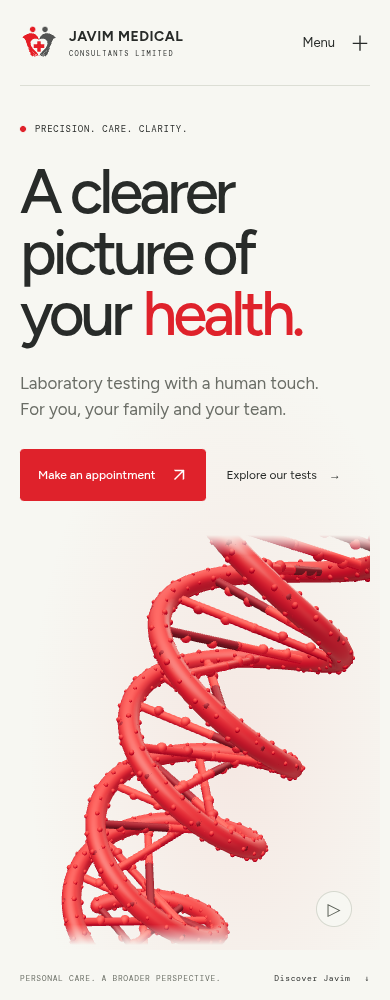
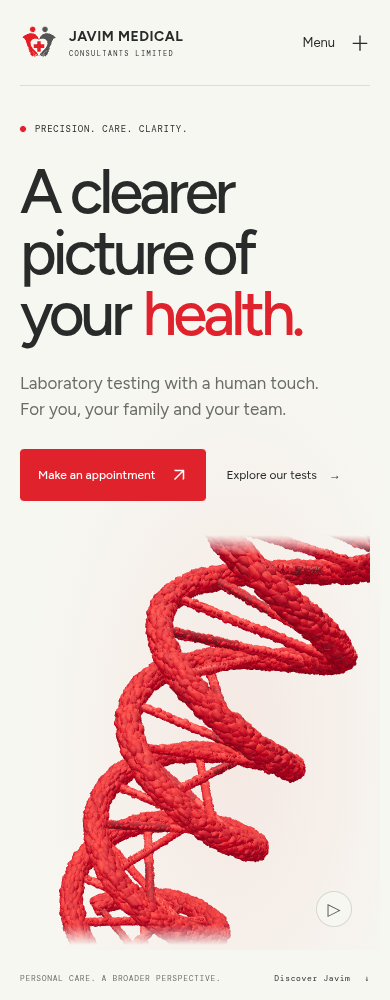
Give DNA continuous densely clustered organic texture

Changed region(s): [[0.1538, 0.527, 0.9538, 0.961]]

diff --git a/src/scene.js b/src/scene.js
@@ -59,7 +59,7 @@ export function mountScene(container) {
   const texture = new THREE.CanvasTexture(surface);
   texture.wrapS = texture.wrapT = THREE.RepeatWrapping;
   texture.repeat.set(5, 2);
-  const red = new THREE.MeshPhysicalMaterial({color:0xac0718,roughness:.58,metalness:0,clearcoat:.1,clearcoatRoughness:.5,envMapIntensity:.3,bumpMap:texture,bumpScale:.07});
+  const red = new THREE.MeshPhysicalMaterial({color:0xac0718,roughness:.72,metalness:0,clearcoat:.04,clearcoatRoughness:.7,envMapIntensity:.25,bumpMap:texture,bumpScale:.055});
   const pale = new THREE.MeshPhysicalMaterial({color:0xc21924,roughness:.62,envMapIntensity:.25,bumpMap:texture,bumpScale:.04});
   const deep = new THREE.MeshPhysicalMaterial({color:0x710916,roughness:.6,envMapIntensity:.25,bumpMap:texture,bumpScale:.04});
   const dna = new THREE.Group(); scene.add(dna);
@@ -67,7 +67,15 @@ export function mountScene(container) {
   const point = (t, phase = 0) => new THREE.Vector3(Math.cos(t * turns * Math.PI * 2 + phase) * radius, (t - .5) * height, Math.sin(t * turns * Math.PI * 2 + phase) * radius);
   for (const phase of [0, offset]) {
     const points = Array.from({length:241}, (_, i) => point(i / 240, phase));
-    dna.add(new THREE.Mesh(new THREE.TubeGeometry(new THREE.CatmullRomCurve3(points), 240, .145, 18, false), red));
+    const geometry = new THREE.TubeGeometry(new THREE.CatmullRomCurve3(points), 320, .12, 24, false);
+    const vertices = geometry.attributes.position, normals = geometry.attributes.normal;
+    for (let i = 0; i < vertices.count; i++) {
+      const x = vertices.getX(i), y = vertices.getY(i), z = vertices.getZ(i);
+      const fold = .013 * Math.sin(y * 24 + x * 13) * Math.sin(z * 21 - y * 9) + .008 * Math.sin(y * 43 + z * 17);
+      vertices.setXYZ(i, x + normals.getX(i) * fold, y + normals.getY(i) * fold, z + normals.getZ(i) * fold);
+    }
+    geometry.computeVertexNormals();
+    dna.add(new THREE.Mesh(geometry, deep));
   }
   const atomGeometry = new THREE.SphereGeometry(1, 16, 12);
   const bondGeometry = new THREE.CylinderGeometry(1, 1, 1, 10);
@@ -82,14 +90,14 @@ export function mountScene(container) {
   };
   for (let i = 0; i <= 27; i++) {
     const t = i / 27, left = point(t), right = point(t, offset);
-    atom(left, .135, red); atom(right, .135, red);
+    atom(left, .1, red); atom(right, .1, red);
     const middle = left.clone().lerp(right, .5);
     bond(left, middle, .06, i % 2 ? red : pale);
     bond(middle, right, .06, i % 2 ? pale : deep);
     for (let j = 1; j < 6; j++) {
       const p = left.clone().lerp(right, j / 6);
       p.y += Math.sin(j * Math.PI / 3) * .035;
-      atom(p, j === 3 ? .065 : .074, (i + j) % 3 ? pale : red);
+      atom(p, j === 3 ? .045 : .052, (i + j) % 3 ? pale : red);
     }
     for (const phase of [0, offset]) {
       const p = point(Math.min(1, t + .014), phase);
@@ -97,23 +105,57 @@ export function mountScene(container) {
       atom(side, .06, deep); bond(p, side, .035, red);
     }
   }
-  // Instanced surface clusters add molecular relief with one additional draw call.
-  const clusters = new THREE.InstancedMesh(new THREE.SphereGeometry(1, 8, 6), red, 810);
-  const dummy = new THREE.Object3D(); let clusterIndex = 0;
-  for (const phase of [0, offset]) for (let i = 0; i <= 80; i++) {
-    const t = i / 80, centre = point(t, phase);
+  // Overlapping irregular grains form the strand itself, rather than dots on a tube.
+  // Instancing retains two draw calls for thousands of fused-looking pieces.
+  const grainGeometry = new THREE.SphereGeometry(1, 10, 8);
+  const positions = grainGeometry.attributes.position;
+  for (let i = 0; i < positions.count; i++) {
+    const x = positions.getX(i), y = positions.getY(i), z = positions.getZ(i);
+    const ridge = 1 + .14 * Math.sin(x * 7 + y * 4) * Math.sin(z * 8 - y * 5) + .07 * Math.cos(y * 13 + x * 6);
+    positions.setXYZ(i, x * ridge, y * ridge, z * ridge);
+  }
+  grainGeometry.computeVertexNormals();
+  const rows = 320, ringCount = 10;
+  const clusters = new THREE.InstancedMesh(grainGeometry, red, 2 * rows * ringCount);
+  const dummy = new THREE.Object3D(), colour = new THREE.Color(); let clusterIndex = 0;
+  const setGrain = (centre, normal, binormal, tangent, angle, radius, size) => {
+    dummy.position.copy(centre).addScaledVector(normal, Math.cos(angle) * radius).addScaledVector(binormal, Math.sin(angle) * radius);
+    dummy.quaternion.setFromUnitVectors(new THREE.Vector3(0, 1, 0), tangent);
+    dummy.rotateY(random() * Math.PI); dummy.rotateZ((random() - .5) * .7);
+    dummy.scale.set(size * (.8 + random() * .3), size * (1.1 + random() * .6), size * (.75 + random() * .4));
+    dummy.updateMatrix(); return dummy.matrix;
+  };
+  for (const phase of [0, offset]) for (let i = 0; i < rows; i++) {
+    const t = (i + (random() - .5) * .6) / (rows - 1), centre = point(t, phase);
     const tangent = point(t + .001, phase).sub(centre).normalize();
     const normal = new THREE.Vector3(centre.x, 0, centre.z).normalize();
     normal.addScaledVector(tangent, -normal.dot(tangent)).normalize();
     const binormal = new THREE.Vector3().crossVectors(tangent, normal).normalize();
-    for (let j = 0; j < 5; j++) {
-      const angle = j * Math.PI * 2 / 5 + random() * .5;
-      dummy.position.copy(centre).addScaledVector(normal, Math.cos(angle) * .14).addScaledVector(binormal, Math.sin(angle) * .14);
-      dummy.scale.setScalar(.025 + random() * .018); dummy.updateMatrix();
-      clusters.setMatrixAt(clusterIndex++, dummy.matrix);
+    for (let j = 0; j < ringCount; j++) {
+      const angle = j * Math.PI * 2 / ringCount + random() * .45 + i * .37;
+      const size = .05 + random() * .025;
+      clusters.setMatrixAt(clusterIndex, setGrain(centre, normal, binormal, tangent, angle, .105 + random() * .016, size));
+      colour.setRGB(.65 + random() * .35, .65 + random() * .35, .65 + random() * .35);
+      clusters.setColorAt(clusterIndex++, colour);
     }
   }
-  clusters.instanceMatrix.needsUpdate = true; dna.add(clusters);
+  clusters.instanceMatrix.needsUpdate = true; clusters.instanceColor.needsUpdate = true; dna.add(clusters);
+  // Smaller packed grains continue the same texture across the connecting rungs.
+  const rungGrains = new THREE.InstancedMesh(grainGeometry, red, 28 * 32 * 4);
+  let rungIndex = 0;
+  for (let i = 0; i <= 27; i++) {
+    const left = point(i / 27), right = point(i / 27, offset), tangent = right.clone().sub(left).normalize();
+    const normal = new THREE.Vector3(0, 1, 0), binormal = new THREE.Vector3().crossVectors(tangent, normal).normalize();
+    normal.crossVectors(binormal, tangent).normalize();
+    for (let k = 0; k < 32; k++) {
+      const centre = left.clone().lerp(right, (k + random() * .4) / 31.4);
+      for (let j = 0; j < 4; j++) {
+        rungGrains.setMatrixAt(rungIndex, setGrain(centre, normal, binormal, tangent, j * Math.PI / 2 + random() * .5, .034, .029 + random() * .014));
+        colour.setScalar(.7 + random() * .3); rungGrains.setColorAt(rungIndex++, colour);
+      }
+    }
+  }
+  rungGrains.instanceMatrix.needsUpdate = true; rungGrains.instanceColor.needsUpdate = true; dna.add(rungGrains);
   const initialYaw = -.65;
   dna.rotation.set(.15, initialYaw, -.42);
   dna.position.x = .35;

diff --git a/README.md b/README.md
@@ -64,7 +64,7 @@ Once public Cal.com event links exist, copy `.env.example` to `.env.local` and f
 
 The supplied logo images were visible in the conversation but were not available as local downloadable files, and retrieval from the former website was blocked. The current mark is a hand-recreated SVG based on the supplied artwork, not the original vector. Replace `public/assets/javim-mark.svg` and `favicon.svg` with approved originals for launch.
 
-The landing-page DNA uses offset helical strands, paired bases, instanced molecular surface clusters and multi-scale surface grain with soft studio lighting. The helix is oversized and cropped at the top and bottom, with responsive scaling and a restrained rose light wash across the hero. A slowly drifting key light and rim highlight reveal surface depth during animation. The starting view is tilted, and all molecular materials use red shades. WhatsApp text and links use a darker brand green on light backgrounds and bright WhatsApp green on the dark contact section to preserve contrast. The starting view is tilted, and all molecular materials use red shades. WhatsApp text and links use a darker brand green on light backgrounds and bright WhatsApp green on the dark contact section to preserve contrast. The WebGL canvas preserves alpha, has no opaque scene background or fog, and composites directly over the light page. Its slow rotation supports pointer/touch exploration, a pause control, reduced-motion preferences, off-screen suspension and a static DNA fallback. This is an original scientific illustration, not a scientifically exact molecular model or a claim that Javim offers genetic testing. The former blood-cell/DNA switcher and technical labels have been removed from the hero.
+The landing-page DNA uses offset helical strands, paired bases, overlapping irregular grains forming continuous strands, smaller grain clusters across the connecting rungs, and multi-scale surface creases with soft studio lighting. The helix is oversized and cropped at the top and bottom, with responsive scaling and a restrained rose light wash across the hero. A slowly drifting key light and rim highlight reveal surface depth during animation. The starting view is tilted, and all molecular materials use red shades. WhatsApp text and links use a darker brand green on light backgrounds and bright WhatsApp green on the dark contact section to preserve contrast. The starting view is tilted, and all molecular materials use red shades. WhatsApp text and links use a darker brand green on light backgrounds and bright WhatsApp green on the dark contact section to preserve contrast. The WebGL canvas preserves alpha, has no opaque scene background or fog, and composites directly over the light page. Its slow rotation supports pointer/touch exploration, a pause control, reduced-motion preferences, off-screen suspension and a static DNA fallback. This is an original scientific illustration, not a scientifically exact molecular model or a claim that Javim offers genetic testing. The former blood-cell/DNA switcher and technical labels have been removed from the hero.
 
 The anatomy explorer is an original stylized SVG with clickable and keyboard-selectable organs; it is not realistic 3D anatomy. Related tests provide service navigation, not diagnostic recommendations. No other brands' or watermarked stock imagery is included.
 
